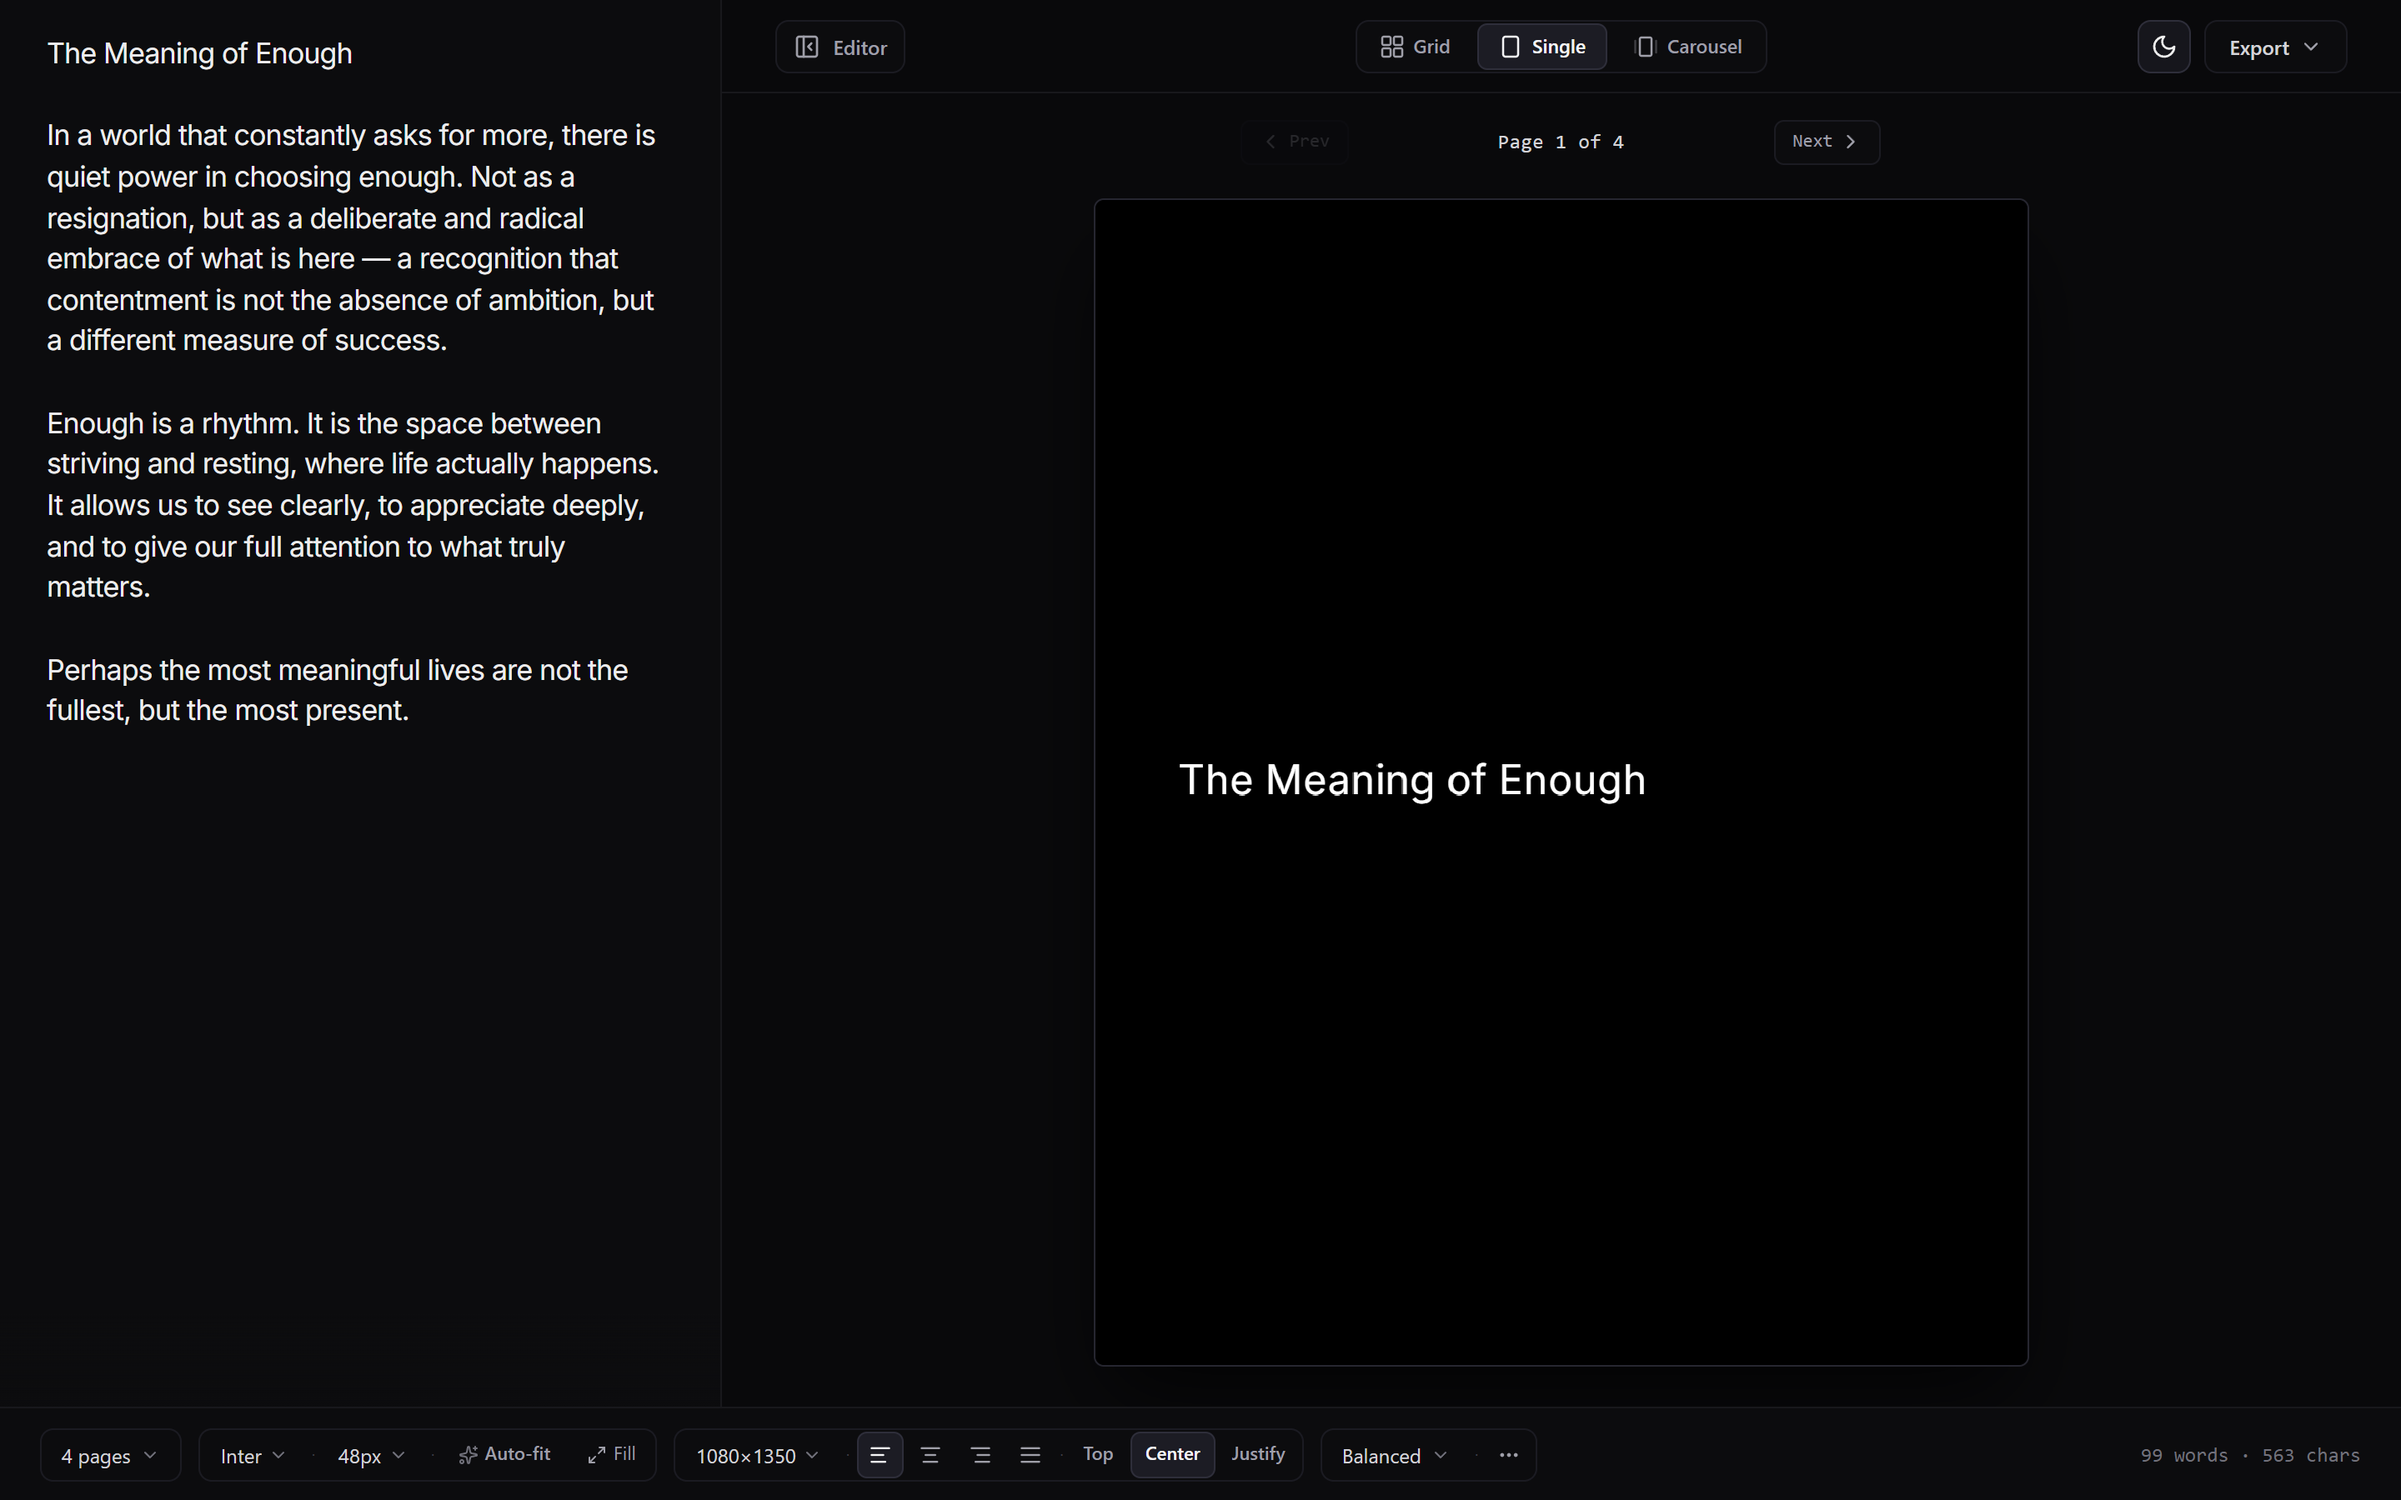
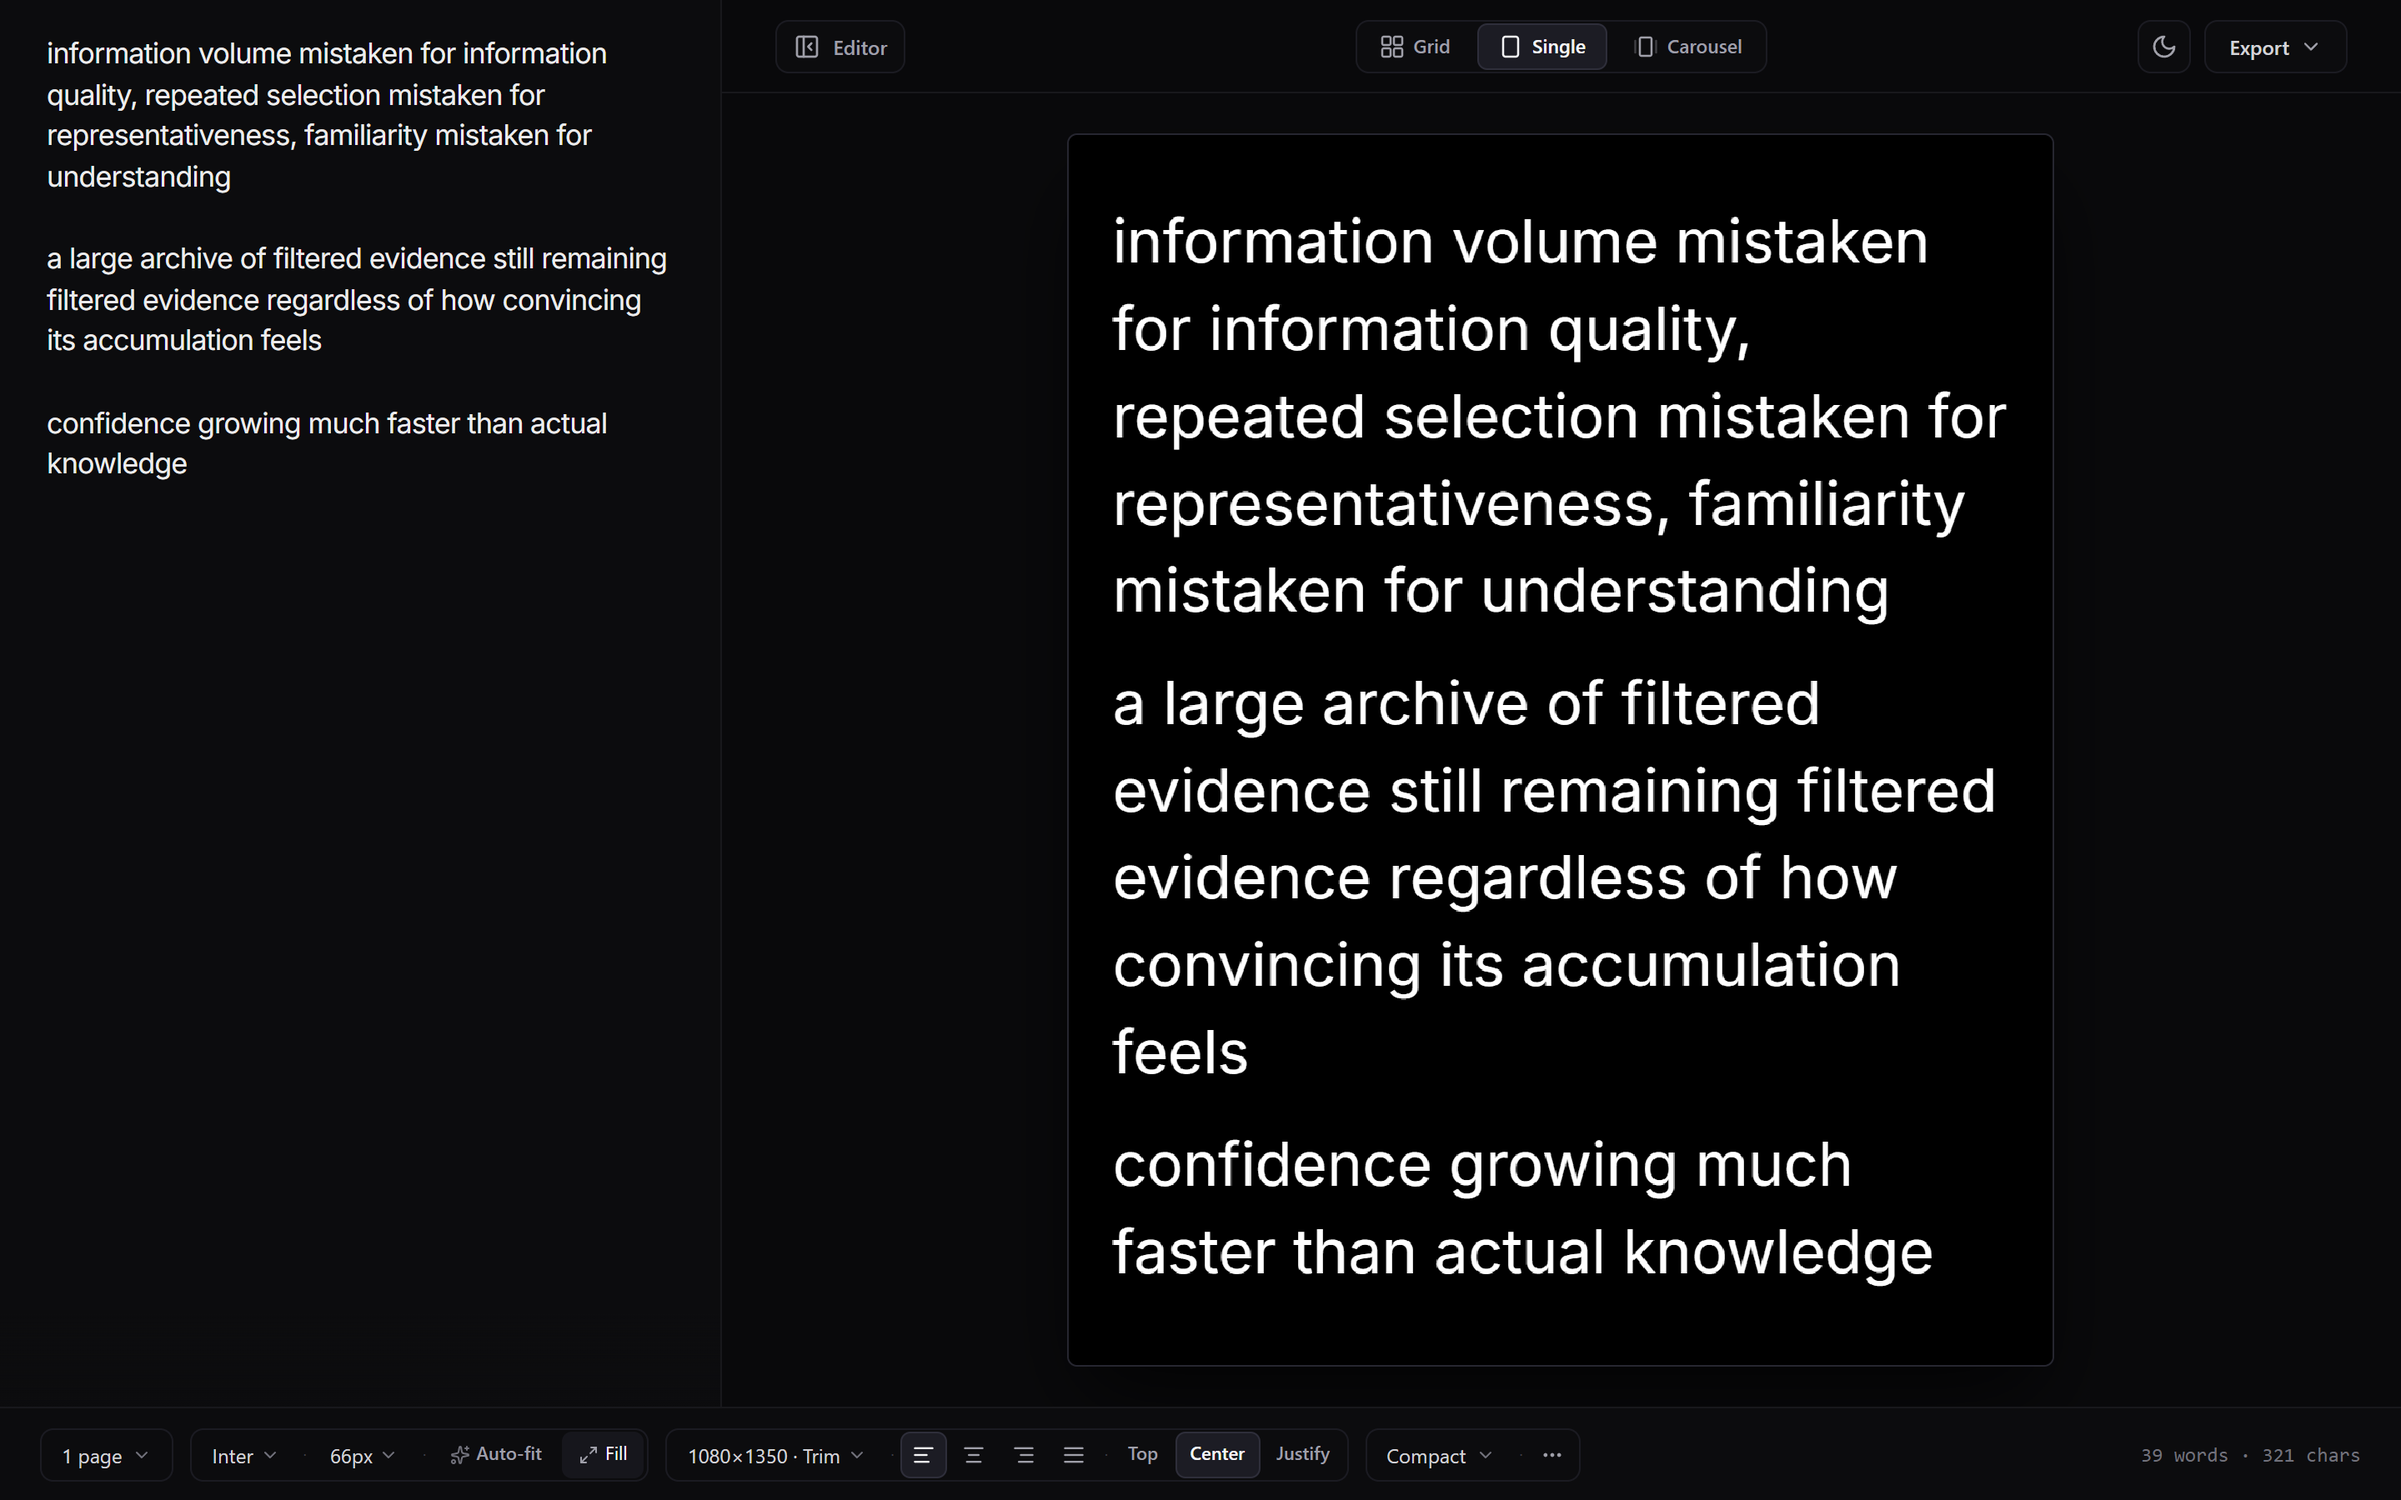
docs: update demo gif and screenshots with unpunctuated epistemological text and compact fill layout

diff --git a/README.md b/README.md
@@ -7,7 +7,7 @@
 <h1 align="center">longform-rasterizer</h1>
 
 <p align="center">
-  <strong>Dynamic Long-Form Text to Image Engine</strong><br>
+  <strong>Dynamic Long-Form Text Typesetting Engine</strong><br>
   Turn essays, quotes, and threads into balanced, high-resolution image cards.
 </p>
 
